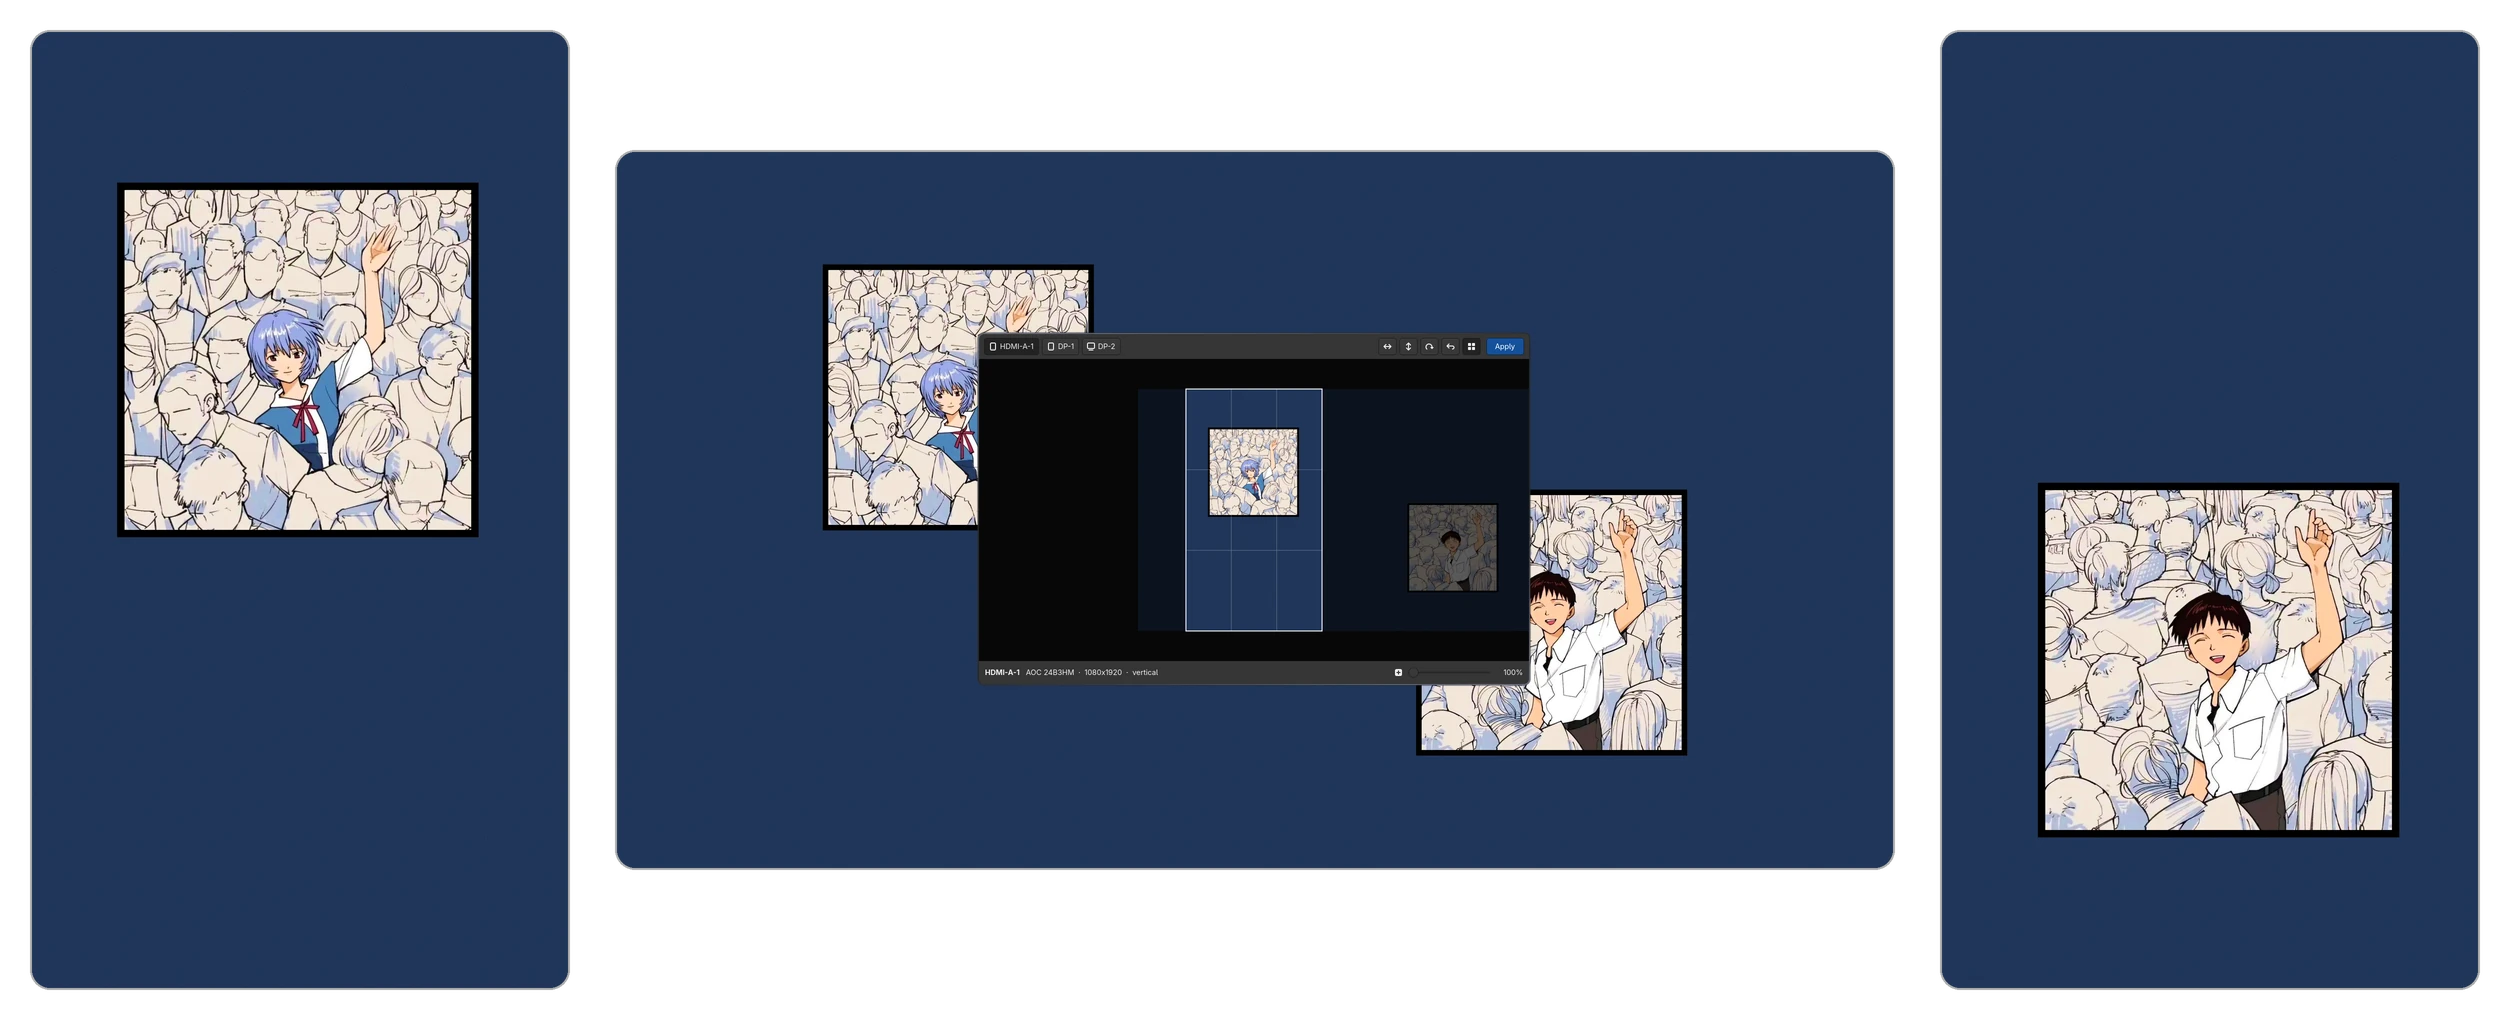
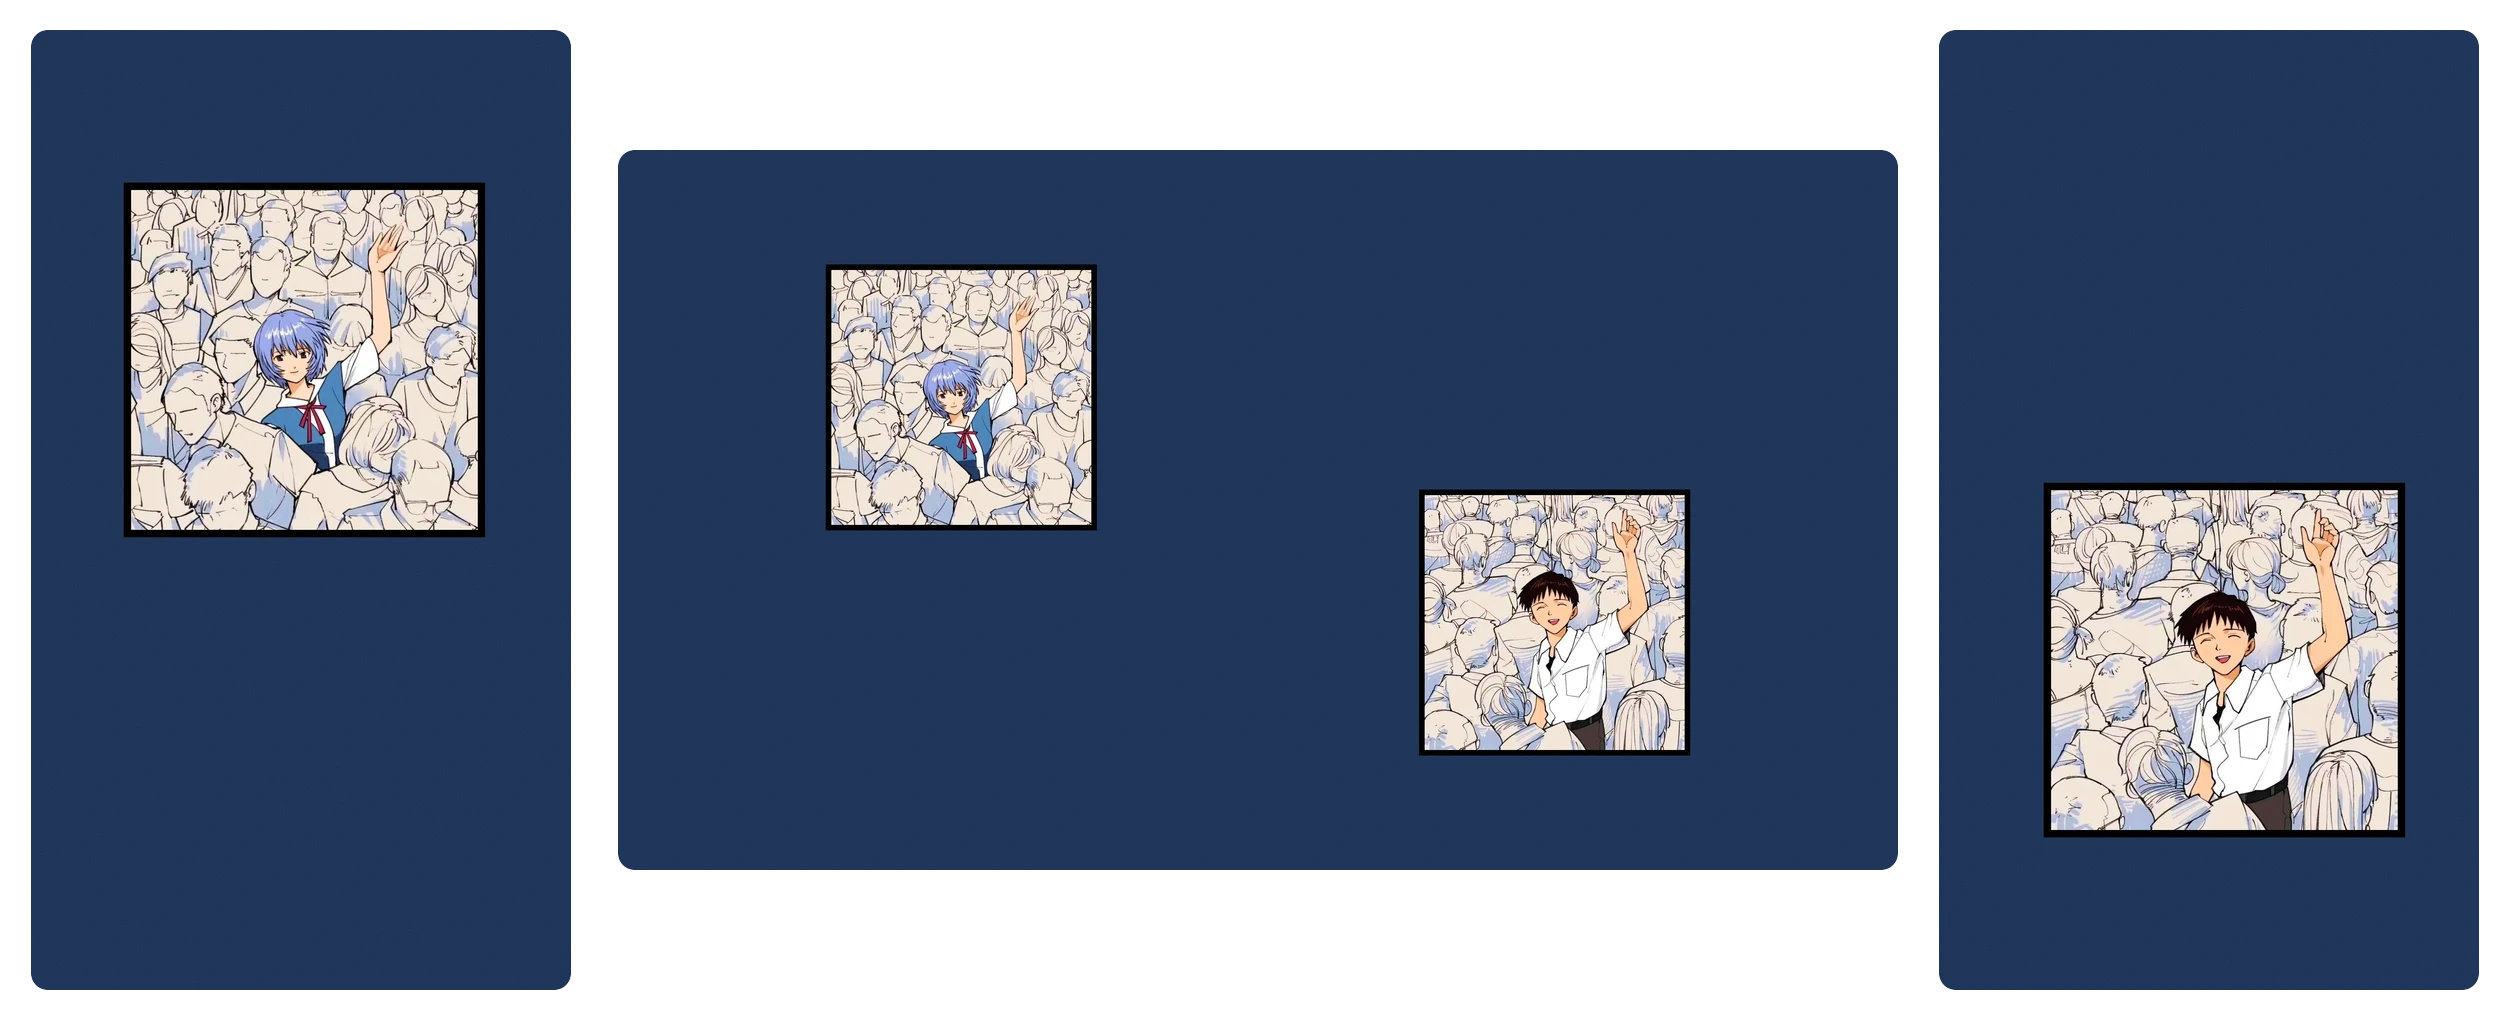
docs: refresh screenshots and add layouts and fill images - Retake before, after and interface with the current UI - Add layouts.webp and fill.webp next to their sections - Mention saved layouts in the intro - Require GTK 4.10 or newer

diff --git a/README.md b/README.md
@@ -1,6 +1,6 @@
 # wallframe
 
-Drag, zoom, mirror and rotate your wallpaper inside each monitor's frame. A GTK4 editor for awww and swww on Wayland.
+Drag, zoom, mirror and rotate your wallpaper inside each monitor's frame, and save layouts for all your monitors. A GTK4 editor for awww and swww on Wayland.
 
 Wallpaper daemons scale the image to fill the screen and cut off the parts that do not fit. They always keep the center. On a portrait monitor, a landscape image can lose more than half of its width, and often the part you wanted to see. wallframe shows the frame of each monitor over the image, so you can choose which part to keep.
 
@@ -14,7 +14,7 @@ Wallpaper daemons scale the image to fill the screen and cut off the parts that 
 
 ## Requirements
 
-`gtk4`, `python-gobject`, `python-cairo`, `python-pillow`, and `awww` or `swww`. On Arch Linux:
+`gtk4` (4.10 or newer), `python-gobject`, `python-cairo`, `python-pillow`, and `awww` or `swww`. On Arch Linux:
 
 ```bash
 sudo pacman -S gtk4 python-gobject python-cairo python-pillow awww
@@ -65,7 +65,7 @@ for_window [app_id="io.github.AlejandroMinor.wallframe"] floating enable
 
 ## Usage
 
-![wallframe editing a portrait monitor: the frame is bright, the rest of the image is dimmed](docs/interface.webp)
+![wallframe editing a monitor: the frame is bright, the rest of the image is dimmed](docs/interface.webp)
 
 | Action | Mouse / button | Key |
 |--------|----------------|-----|
@@ -87,11 +87,15 @@ for_window [app_id="io.github.AlejandroMinor.wallframe"] floating enable
 
 Zoom below 100% to see more of the image, or to make it smaller than the monitor. The empty space around it is filled with a copy of the image, blurred as much as you like, or with a color. Both are in the **Fill** panel of the bottom bar. Check **Move background** there (or press `B`) to drag and zoom that copy instead of the image.
 
+![A landscape picture zoomed out on a portrait monitor, with the empty space filled by a blurred copy](docs/fill.webp)
+
 A dot on a monitor button means that the monitor does not show your changes yet. Apply crops the image to the exact size of the monitor and sets it with awww (or swww) on that monitor only. The window stays open.
 
 wallframe saves the crops in `~/.local/share/wallframe/`. It does not use the cache folder, because the daemon loads the crops from there again at login. When you open wallframe again, each monitor starts from the original image with your last framing, so the image does not lose quality. Animated and video wallpapers are not supported.
 
 The **Layouts** panel saves what every monitor shows: the picture and its framing. Each layout has a preview of your monitors as they stand on the desk (on Hyprland and sway; elsewhere side by side). Click a layout to show it on the monitors at once; the one they show is marked. Its menu renames it, saves the current wallpapers into it, duplicates it or deletes it. Layouts point at your pictures: if one was moved or deleted, that monitor stays as it was and wallframe says why, with the path where the picture was.
+
+![The Layouts panel with two saved layouts, one of them marked as the one the monitors show](docs/layouts.webp)
 
 wallframe opens on the focused monitor. To start on a different monitor, give its output name: `wallframe DP-1`.
 
